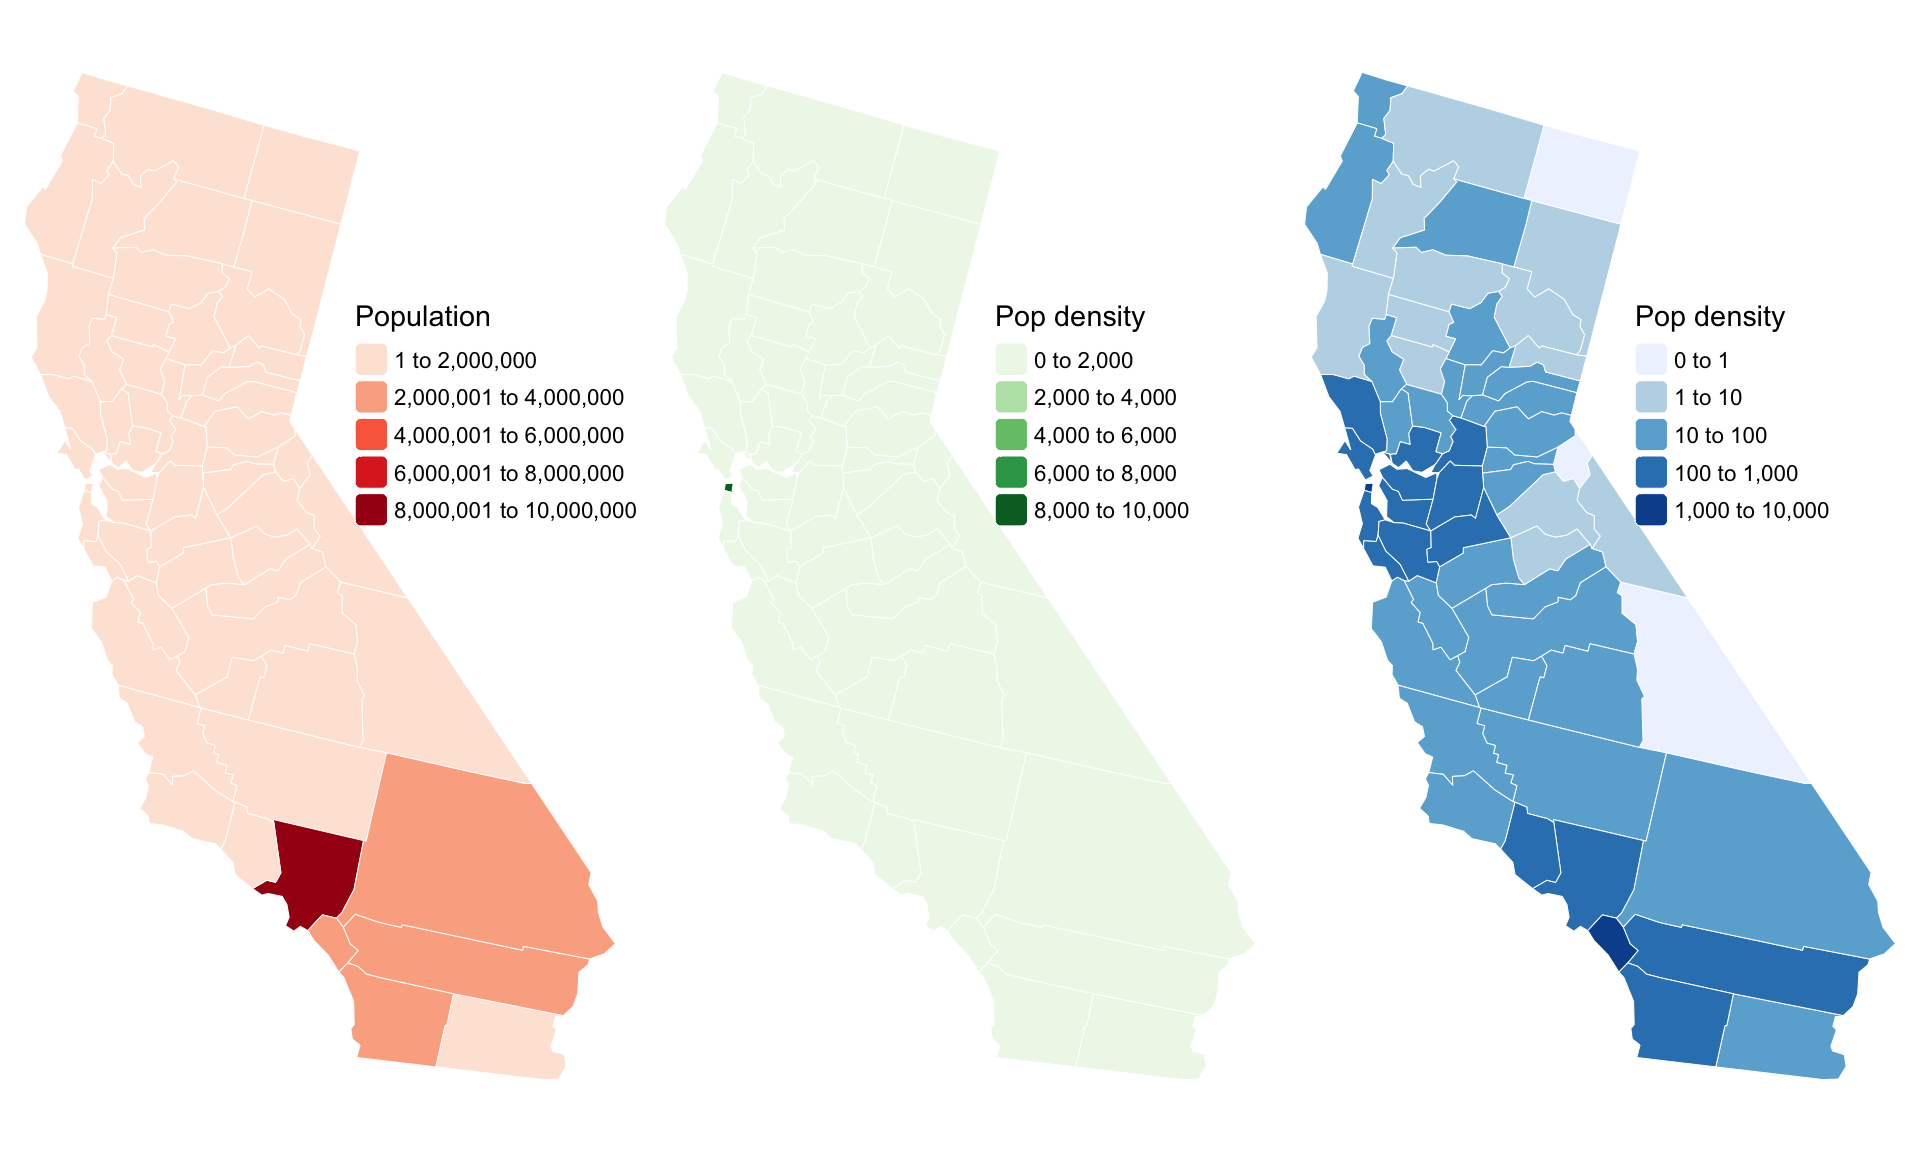
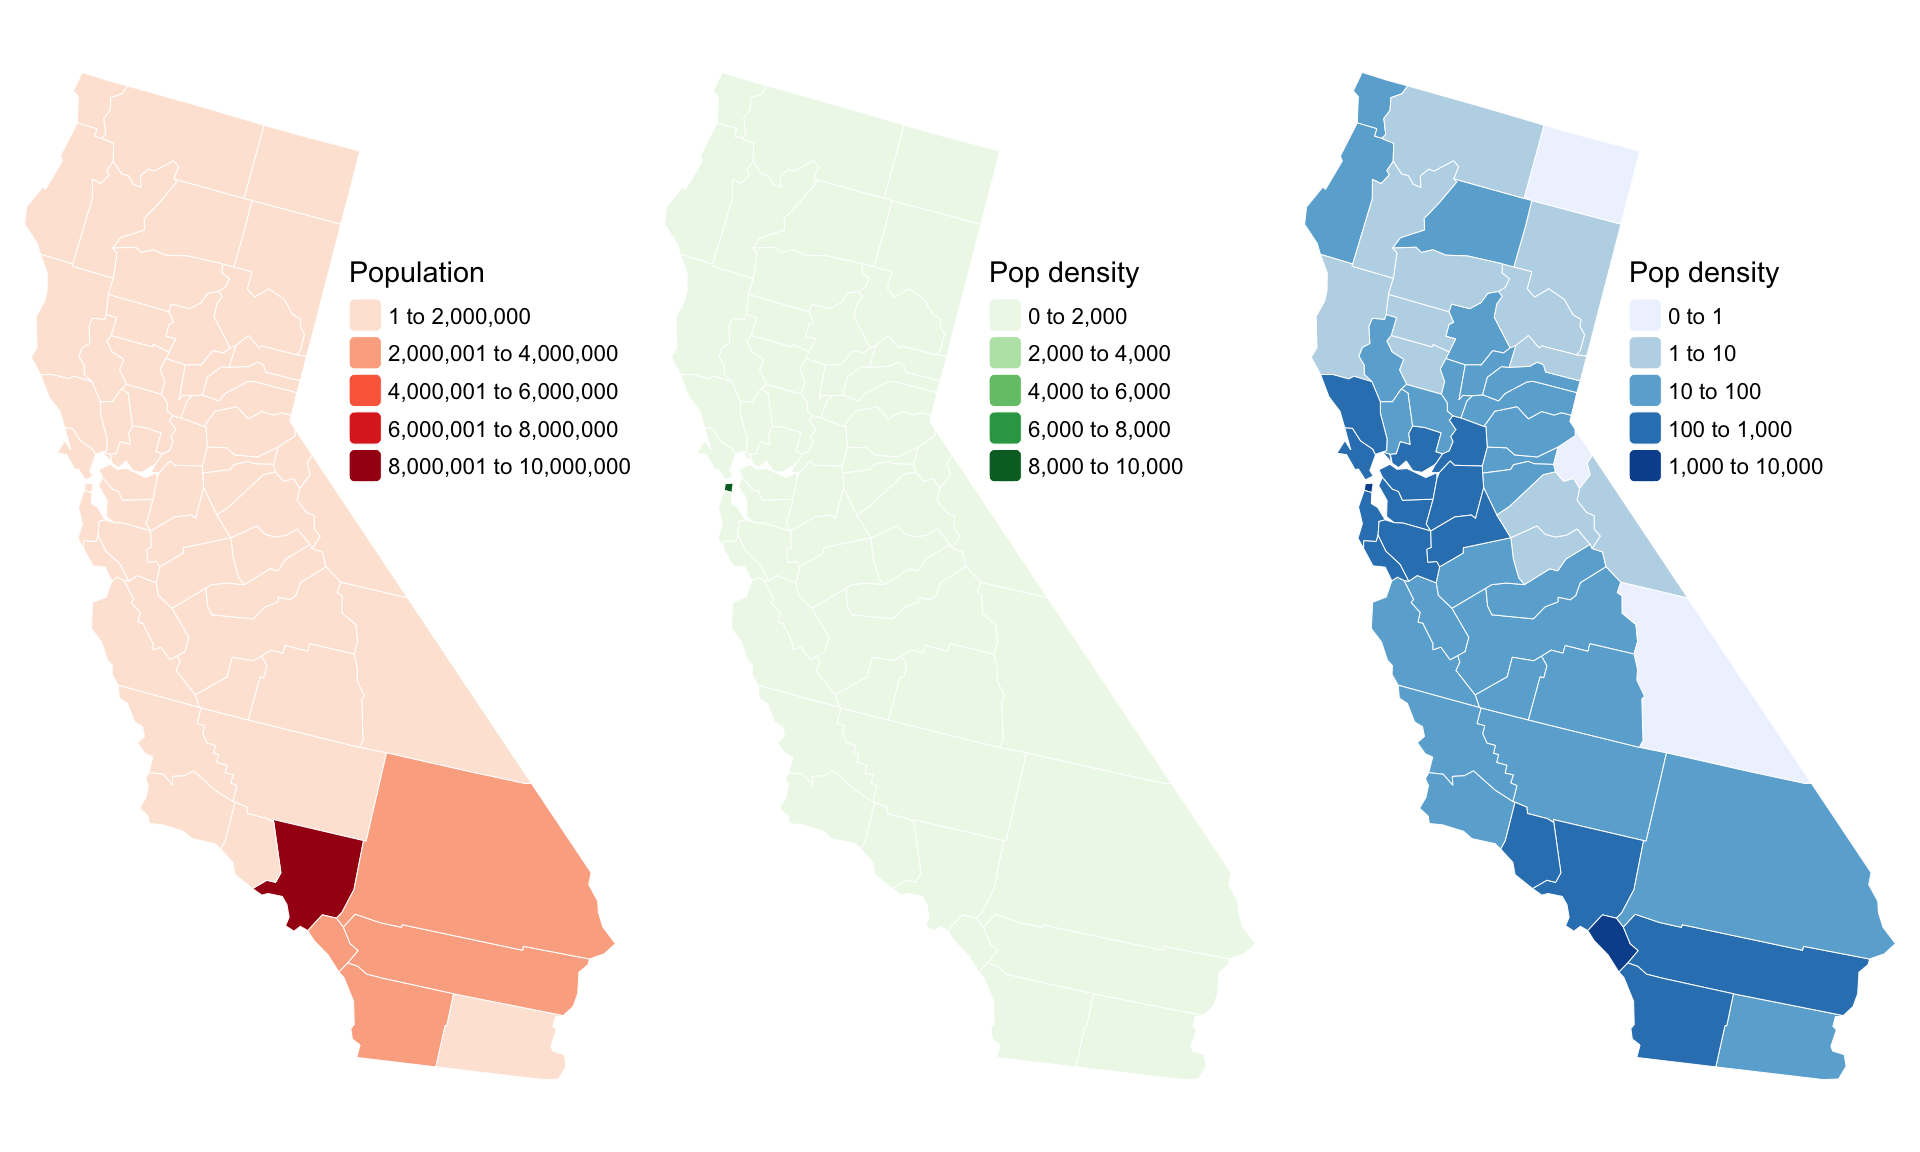
tweaks to legend location CA choropleths

Changed region(s): [[0.1562, 0.2188, 0.3438, 0.4688], [0.5, 0.2188, 0.625, 0.4688], [0.8438, 0.2188, 0.9375, 0.4688]]

diff --git a/docs/chapters/chap5/fig5-05-ca-pop-maps.html b/docs/chapters/chap5/fig5-05-ca-pop-maps.html
@@ -246,7 +246,7 @@ pre > code.sourceCode > span > a:first-child::before { text-decoration: underlin
 <span id="cb2-4"><a href="#cb2-4" aria-hidden="true" tabindex="-1"></a>    <span class="at">fill.scale =</span> <span class="fu">tm_scale_intervals</span>(<span class="at">values =</span> <span class="st">"brewer.reds"</span>, </span>
 <span id="cb2-5"><a href="#cb2-5" aria-hidden="true" tabindex="-1"></a>                                    <span class="at">style =</span> <span class="st">"pretty"</span>),</span>
 <span id="cb2-6"><a href="#cb2-6" aria-hidden="true" tabindex="-1"></a>    <span class="at">fill.legend =</span> <span class="fu">tm_legend</span>(<span class="at">title =</span> <span class="st">"Population"</span>, </span>
-<span id="cb2-7"><a href="#cb2-7" aria-hidden="true" tabindex="-1"></a>                            <span class="at">position =</span> <span class="fu">c</span>(<span class="fl">0.54</span>, <span class="fl">0.76</span>))) <span class="sc">+</span> </span>
+<span id="cb2-7"><a href="#cb2-7" aria-hidden="true" tabindex="-1"></a>                            <span class="at">position =</span> <span class="fu">c</span>(<span class="fl">0.53</span>, <span class="fl">0.8</span>))) <span class="sc">+</span> </span>
 <span id="cb2-8"><a href="#cb2-8" aria-hidden="true" tabindex="-1"></a>  <span class="fu">tm_layout</span>(<span class="at">frame =</span> <span class="cn">FALSE</span>, <span class="at">legend.frame =</span> <span class="cn">FALSE</span>)</span>
 <span id="cb2-9"><a href="#cb2-9" aria-hidden="true" tabindex="-1"></a>  </span>
 <span id="cb2-10"><a href="#cb2-10" aria-hidden="true" tabindex="-1"></a>m2 <span class="ot">&lt;-</span> <span class="fu">tm_shape</span>(ca) <span class="sc">+</span> </span>
@@ -255,7 +255,7 @@ pre > code.sourceCode > span > a:first-child::before { text-decoration: underlin
 <span id="cb2-13"><a href="#cb2-13" aria-hidden="true" tabindex="-1"></a>    <span class="at">fill.scale =</span> <span class="fu">tm_scale_intervals</span>(<span class="at">values =</span> <span class="st">"brewer.greens"</span>,</span>
 <span id="cb2-14"><a href="#cb2-14" aria-hidden="true" tabindex="-1"></a>                                    <span class="at">style =</span> <span class="st">"pretty"</span>),</span>
 <span id="cb2-15"><a href="#cb2-15" aria-hidden="true" tabindex="-1"></a>    <span class="at">fill.legend =</span> <span class="fu">tm_legend</span>(<span class="at">title =</span> <span class="st">"Pop density"</span>, </span>
-<span id="cb2-16"><a href="#cb2-16" aria-hidden="true" tabindex="-1"></a>                            <span class="at">position =</span> <span class="fu">c</span>(<span class="fl">0.54</span>, <span class="fl">0.76</span>))) <span class="sc">+</span> </span>
+<span id="cb2-16"><a href="#cb2-16" aria-hidden="true" tabindex="-1"></a>                            <span class="at">position =</span> <span class="fu">c</span>(<span class="fl">0.53</span>, <span class="fl">0.8</span>))) <span class="sc">+</span> </span>
 <span id="cb2-17"><a href="#cb2-17" aria-hidden="true" tabindex="-1"></a>  <span class="fu">tm_layout</span>(<span class="at">frame =</span> <span class="cn">FALSE</span>, <span class="at">legend.frame =</span> <span class="cn">FALSE</span>)</span>
 <span id="cb2-18"><a href="#cb2-18" aria-hidden="true" tabindex="-1"></a></span>
 <span id="cb2-19"><a href="#cb2-19" aria-hidden="true" tabindex="-1"></a>m3 <span class="ot">&lt;-</span> <span class="fu">tm_shape</span>(ca) <span class="sc">+</span> </span>
@@ -264,7 +264,7 @@ pre > code.sourceCode > span > a:first-child::before { text-decoration: underlin
 <span id="cb2-22"><a href="#cb2-22" aria-hidden="true" tabindex="-1"></a>    <span class="at">fill.scale =</span> <span class="fu">tm_scale_intervals</span>(<span class="at">values =</span> <span class="st">"brewer.blues"</span>, </span>
 <span id="cb2-23"><a href="#cb2-23" aria-hidden="true" tabindex="-1"></a>                                    <span class="at">style =</span> <span class="st">"log10_pretty"</span>),</span>
 <span id="cb2-24"><a href="#cb2-24" aria-hidden="true" tabindex="-1"></a>    <span class="at">fill.legend =</span> <span class="fu">tm_legend</span>(<span class="at">title =</span> <span class="st">"Pop density"</span>, </span>
-<span id="cb2-25"><a href="#cb2-25" aria-hidden="true" tabindex="-1"></a>                            <span class="at">position =</span> <span class="fu">c</span>(<span class="fl">0.54</span>, <span class="fl">0.76</span>))) <span class="sc">+</span> </span>
+<span id="cb2-25"><a href="#cb2-25" aria-hidden="true" tabindex="-1"></a>                            <span class="at">position =</span> <span class="fu">c</span>(<span class="fl">0.53</span>, <span class="fl">0.8</span>))) <span class="sc">+</span> </span>
 <span id="cb2-26"><a href="#cb2-26" aria-hidden="true" tabindex="-1"></a>  <span class="fu">tm_layout</span>(<span class="at">frame =</span> <span class="cn">FALSE</span>, <span class="at">legend.frame =</span> <span class="cn">FALSE</span>)</span>
 <span id="cb2-27"><a href="#cb2-27" aria-hidden="true" tabindex="-1"></a>  </span>
 <span id="cb2-28"><a href="#cb2-28" aria-hidden="true" tabindex="-1"></a><span class="fu">tmap_arrange</span>(m1, m2, m3)</span></code><button title="Copy to Clipboard" class="code-copy-button"><i class="bi"></i></button></pre></div>
@@ -718,7 +718,7 @@ window.document.addEventListener("DOMContentLoaded", function (event) {
 });
 </script>
 </div> <!-- /content -->
-<script>var lightboxQuarto = GLightbox({"descPosition":"bottom","closeEffect":"zoom","selector":".lightbox","loop":false,"openEffect":"zoom"});
+<script>var lightboxQuarto = GLightbox({"closeEffect":"zoom","selector":".lightbox","loop":false,"openEffect":"zoom","descPosition":"bottom"});
 window.onload = () => {
   lightboxQuarto.on('slide_before_load', (data) => {
     const { slideIndex, slideNode, slideConfig, player, trigger } = data;

diff --git a/docs/index-listing.html b/docs/index-listing.html
@@ -402,7 +402,7 @@ window.Quarto = {
 <a href="./chapters/chap5/fig5-01-9-intersection.html" class="title listing-title">Figure 5.1 The 9-intersection model of topological relations</a>
 </td>
 </tr>
-<tr data-index="26" data-categories="figures,code,R" data-listing-file-modified-sort="1731728487895" data-listing-reading-time-sort="3" data-listing-word-count-sort="597" data-listing-title-sort="Figure 5.5 Maps of areas with widely varying populations" data-listing-filename-sort="fig5-05-ca-pop-maps.qmd">
+<tr data-index="26" data-categories="figures,code,R" data-listing-file-modified-sort="1731728662677" data-listing-reading-time-sort="3" data-listing-word-count-sort="597" data-listing-title-sort="Figure 5.5 Maps of areas with widely varying populations" data-listing-filename-sort="fig5-05-ca-pop-maps.qmd">
 <td>
 <a href="./chapters/chap5/fig5-05-ca-pop-maps.html" class="title listing-title">Figure 5.5 Maps of areas with widely varying populations</a>
 </td>

diff --git a/docs/chapters/chap5/index.html b/docs/chapters/chap5/index.html
@@ -306,7 +306,7 @@ This page attempts to show the various spatial predicates of the 9-intersection 
 </div>
 </a>
 </div>
-<div class="g-col-1" data-index="2" data-categories="figures,code,R" data-listing-file-modified-sort="1731728487895" data-listing-reading-time-sort="3" data-listing-word-count-sort="597">
+<div class="g-col-1" data-index="2" data-categories="figures,code,R" data-listing-file-modified-sort="1731728662677" data-listing-reading-time-sort="3" data-listing-word-count-sort="597">
 <a href="../../chapters/chap5/fig5-05-ca-pop-maps.html" class="quarto-grid-link">
 <div class="quarto-grid-item card h-100 card-left">
 <p class="card-img-top"><img src="fig5-05-ca-pop-maps_files/figure-html/unnamed-chunk-2-1.png" style="height: 150px;"  class="thumbnail-image card-img"/></p>
